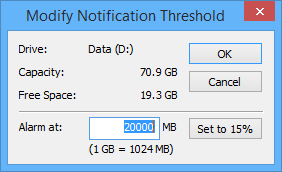
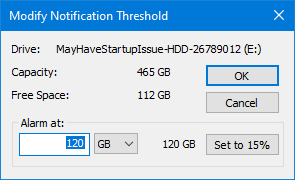
Update documentation & screen shots

diff --git a/ReadMe/SpacePatrol.html b/ReadMe/SpacePatrol.html
@@ -52,11 +52,21 @@ li
 
 <body>
 
-<h1>Space Patrol V2.4.1.0</h1>
+<h1>Space Patrol</h1>
 <p>Space Patrol monitors the available space on your local hard disk drives and provides a notification when the configurable threshold level is reached.</p>
 <p>Unlike the built-in provision in some of the Windows operating systems, Space Patrol gives you full control over the threshold level and provides a consistent notification user interface for all supported versions of Windows.</p>
-<h4>Space Patrol - Copyright &copy; 2002-2023 JD Design, All Rights Reserved</h4>
-<h2>Installation</h2>
+<dl>
+	<dd><a href="#Installation" target="_self">Installation</a></dd>
+	<dd><a href="#Using SP" target="_self">Using Space Patrol</a></dd>
+	<dd><a href="#Registering" target="_self">Registering</a></dd>
+	<dd><a href="#Updates" target="_self">Updates</a></dd>
+	<dd><a href="#FAQs" target="_self">FAQs</a></dd>
+	<dd><a href="#Uninstall" target="_self">Uninstalling</a></dd>
+	<dd><a href="#Support" target="_self">Support</a></dd>
+	<dd><a href="revision_history.htm" target="_blank">Version History</a></dd>
+</dl>
+<h4>Space Patrol - Copyright &copy; 2002-2025 JD Design, All Rights Reserved</h4>
+<h2><a name="Installation"></a>Installation</h2>
 <ol>
 	<li>Expand the zip file to a directory on your machine and run the setup program.</li>
 	<li>Follow the on-screen 
@@ -70,7 +80,7 @@ any of the Space Patrol start menu shortcuts the installation will complete.</p>
 <p>or:</p>
 <p><span class="indent-code">msiexec /a spacecon.msi</span></p>
 <p>Performs an "administrative" installation to a shared network location.</p>
-<h2>How Do You Use Space Patrol?</h2>
+<h2><a name="Using SP"></a>How Do You Use Space Patrol?</h2>
 <ol>
 	<li>Once installed, run the Space Patrol Monitor program from your Start menu. 
 You'll only need to do this once as it will start automatically when you next 
@@ -82,7 +92,8 @@ log on. It does this by adding a
 	enabled, you'll be prompted by Windows UAC when you start it.</li>
 </ol>
 <p>The Space Patrol configuration program displays your disk drive information and suggests where you may want to alter the setting.</p>
-<p class="indent"><img alt="Space Patrol Configuration dialog" src="ConfigDlg.png"></p>
+<p class="indent">
+<img alt="Main UI screenshot" longdesc="Space Patrol dialog screenshot" src="configdlg.png" height="260" width="842"></p>
 <p>Monitoring can be enabled per-disk drive, and for 
 those operating systems that have an inbuilt low disk space notification facility, Space Patrol lets you disable the operating system's facility.</p>
 <p>For Windows XP and later, this setting affects the HKEY_LOCAL_MACHINE\Software\Microsoft\Windows\CurrentVersion\Policies\Explorer NoLowDiskSpaceChecks 
@@ -90,7 +101,8 @@ registry setting.</p>
 <ol>
 	<li>To alter the threshold setting, select the drive and double click (or use the Modify button).</li>
 	<li>Alter the notification level using the "Modify Notification Threshold" dialog.
-		<p><img alt="Modify Threshold Dialog" src="ThresholdDlg.png"></p>
+		<p>You can enter the threshold level as either MB or GB.
+		<img alt="Modify dialog screenshot" longdesc="Modify Notification Threshold dialog screenshot" src="thresholddlg.png" class="rhs-img" height="180" width="295"></p>
 	</li>
 	<li>If you want to disable the operating system facility, check the "Disable the operating system's built-in low-disk space checking facility" button.</li>
 	<li>When you've configured the settings to be how you want them, press the Apply button to commit the settings.</li>
@@ -99,9 +111,12 @@ registry setting.</p>
 depending on your version of Windows, a popup notification indication. This notification will recur periodically, getting less frequent the longer 
 the low disk space situation persists - so as not to annoy you too much if you choose to ignore it.</p>
 <p><img alt="Notification Icon for Windows 8.1" class="rhs-img" height="128" src="Notification%20on%20Win8.1.png" style="float: right" width="360"></p>
-<p>Here's how the notification looks under Windows 8.1. The actual presentation 
-is different under different versions of Windows.</p>
-<h3>Registering</h3>
+<p>Here's how the notification looks for Windows 8.1. The actual presentation 
+is different for different versions of Windows.</p>
+<p style="clear:both">For example, here's how it looks for Windows 10:<img alt="" class="rhs-img" style="float:right" src="notification%20on%20win10-2.png" height="202" width="369"></p>
+<p style="clear:both">While hovering the mouse over the notification icon shows:
+<img alt="" src="notification%20on%20win10-1.png" class="rhs-img" style="float:right" height="56" width="324"></p>
+<h3 style="clear:both"><a name="Registering"></a>Registering</h3>
 <p>Although Space Patrol is now free to use, if you'd like to contribute to its 
 maintenance, you can do so online using one of the secure payment 
 facilities on <a href="https://dave-lowndes.github.io/Jdd_Web/register.htm">our web site</a>. The core source code is available for
@@ -114,16 +129,15 @@ About dialog box. You can access this dialog from the Space Patrol
 configuration dialog's "About" button (see the screen shot above).</p>
 <p>You can check that registration has worked by re-displaying the About box from 
 the main dialog.</p>
-<h2>Updates</h2>
-<p>Any updates to the current version are free to registered users by downloading the latest version from our web site. Your current registration number will 
+<h2><a name="Updates"></a>Updates</h2>
+<p>Any updates to the current version are freely available by downloading the latest version from our web site. Your current registration number will 
 continue to work with updates.</p>
-<h2>Problems/FAQ's?</h2>
+<h2><a name="FAQs"></a>Problems/FAQ's?</h2>
 <p>For up-to-date information, check the FAQs on <a href="https://dave-lowndes.github.io/Jdd_Web/" target="_blank">our web site</a>.</p>
-<h2>Removal</h2>
+<h2><a name="Uninstall"></a>Removal</h2>
 <p>Use the Control Panel, Add/Remove Programs (Programs and Features)/Apps and 
 Features and choose the Space Patrol item.</p>
-<h2><a href="revision_history.htm" target="_blank">Revision History</a></h2>
-<h2>Support</h2>
+<h2><a name="Support"></a>Support</h2>
 <p>We maintain a list of frequently asked questions on our web site. If you have a technical question, please check there to see if you can find an answer 
 before contacting us.</p>
 <p>We will post the latest versions of our utilities on our web site as soon as they are available, so please take a look to keep up to date and to see what 
